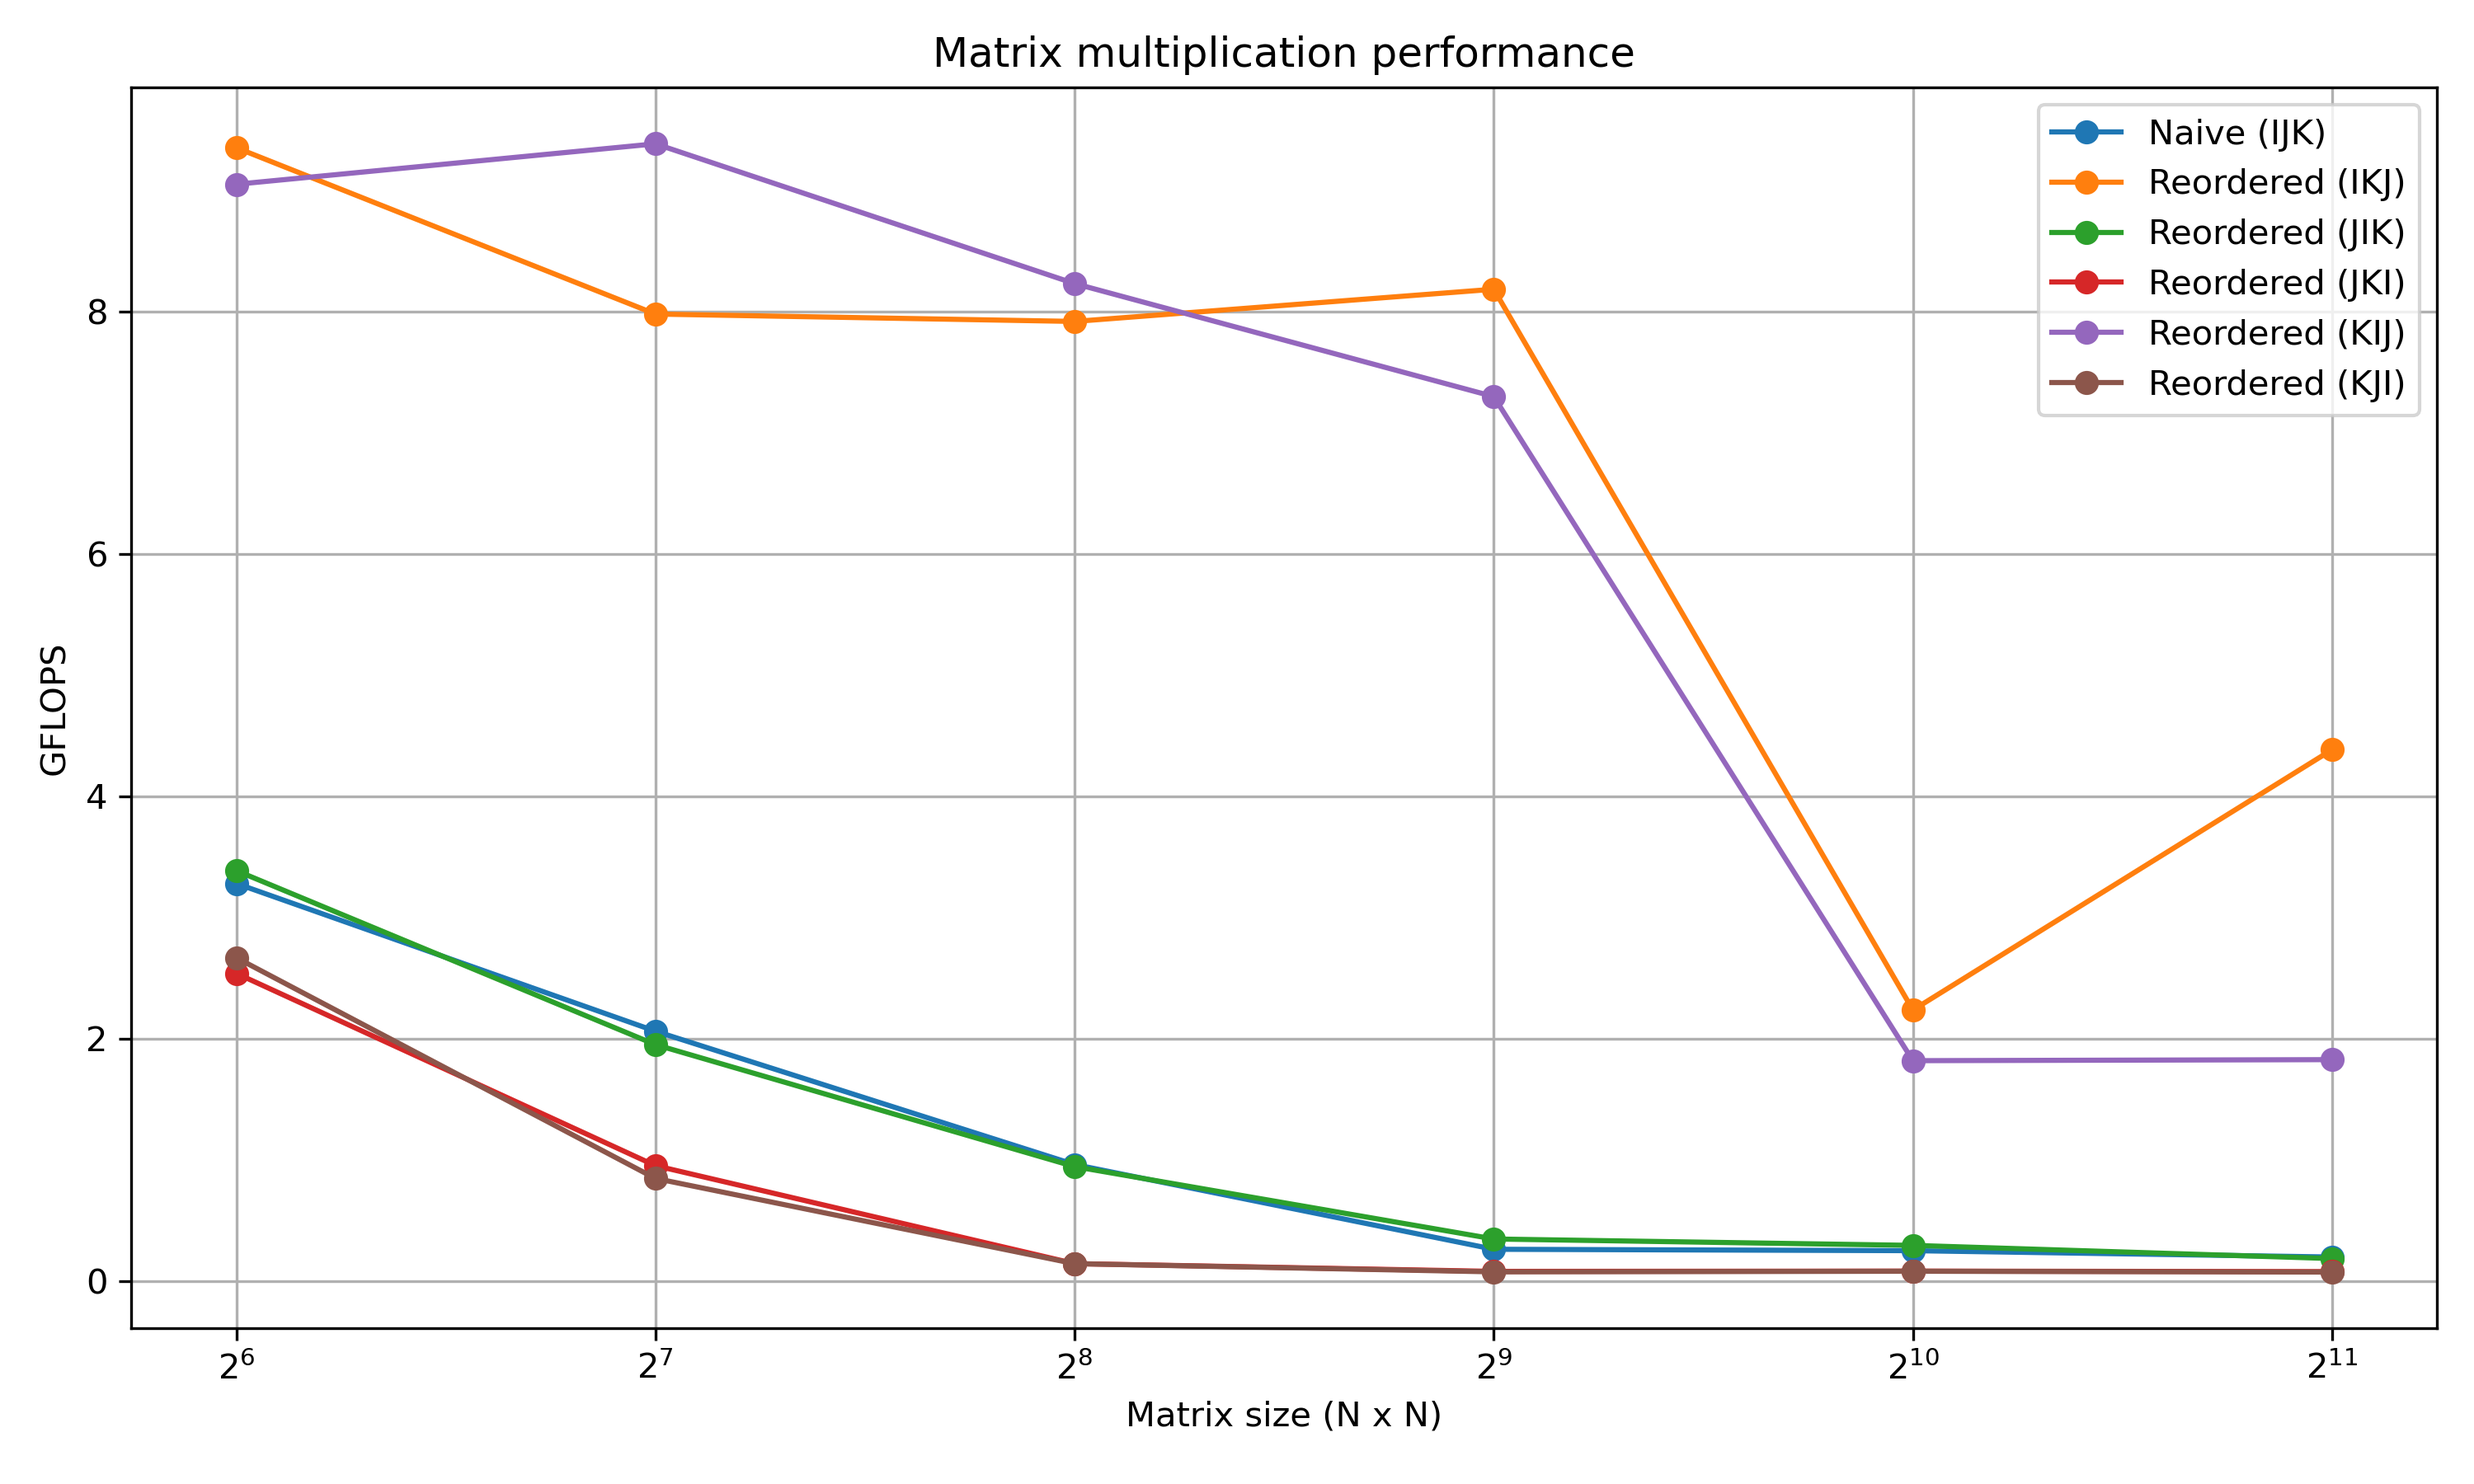
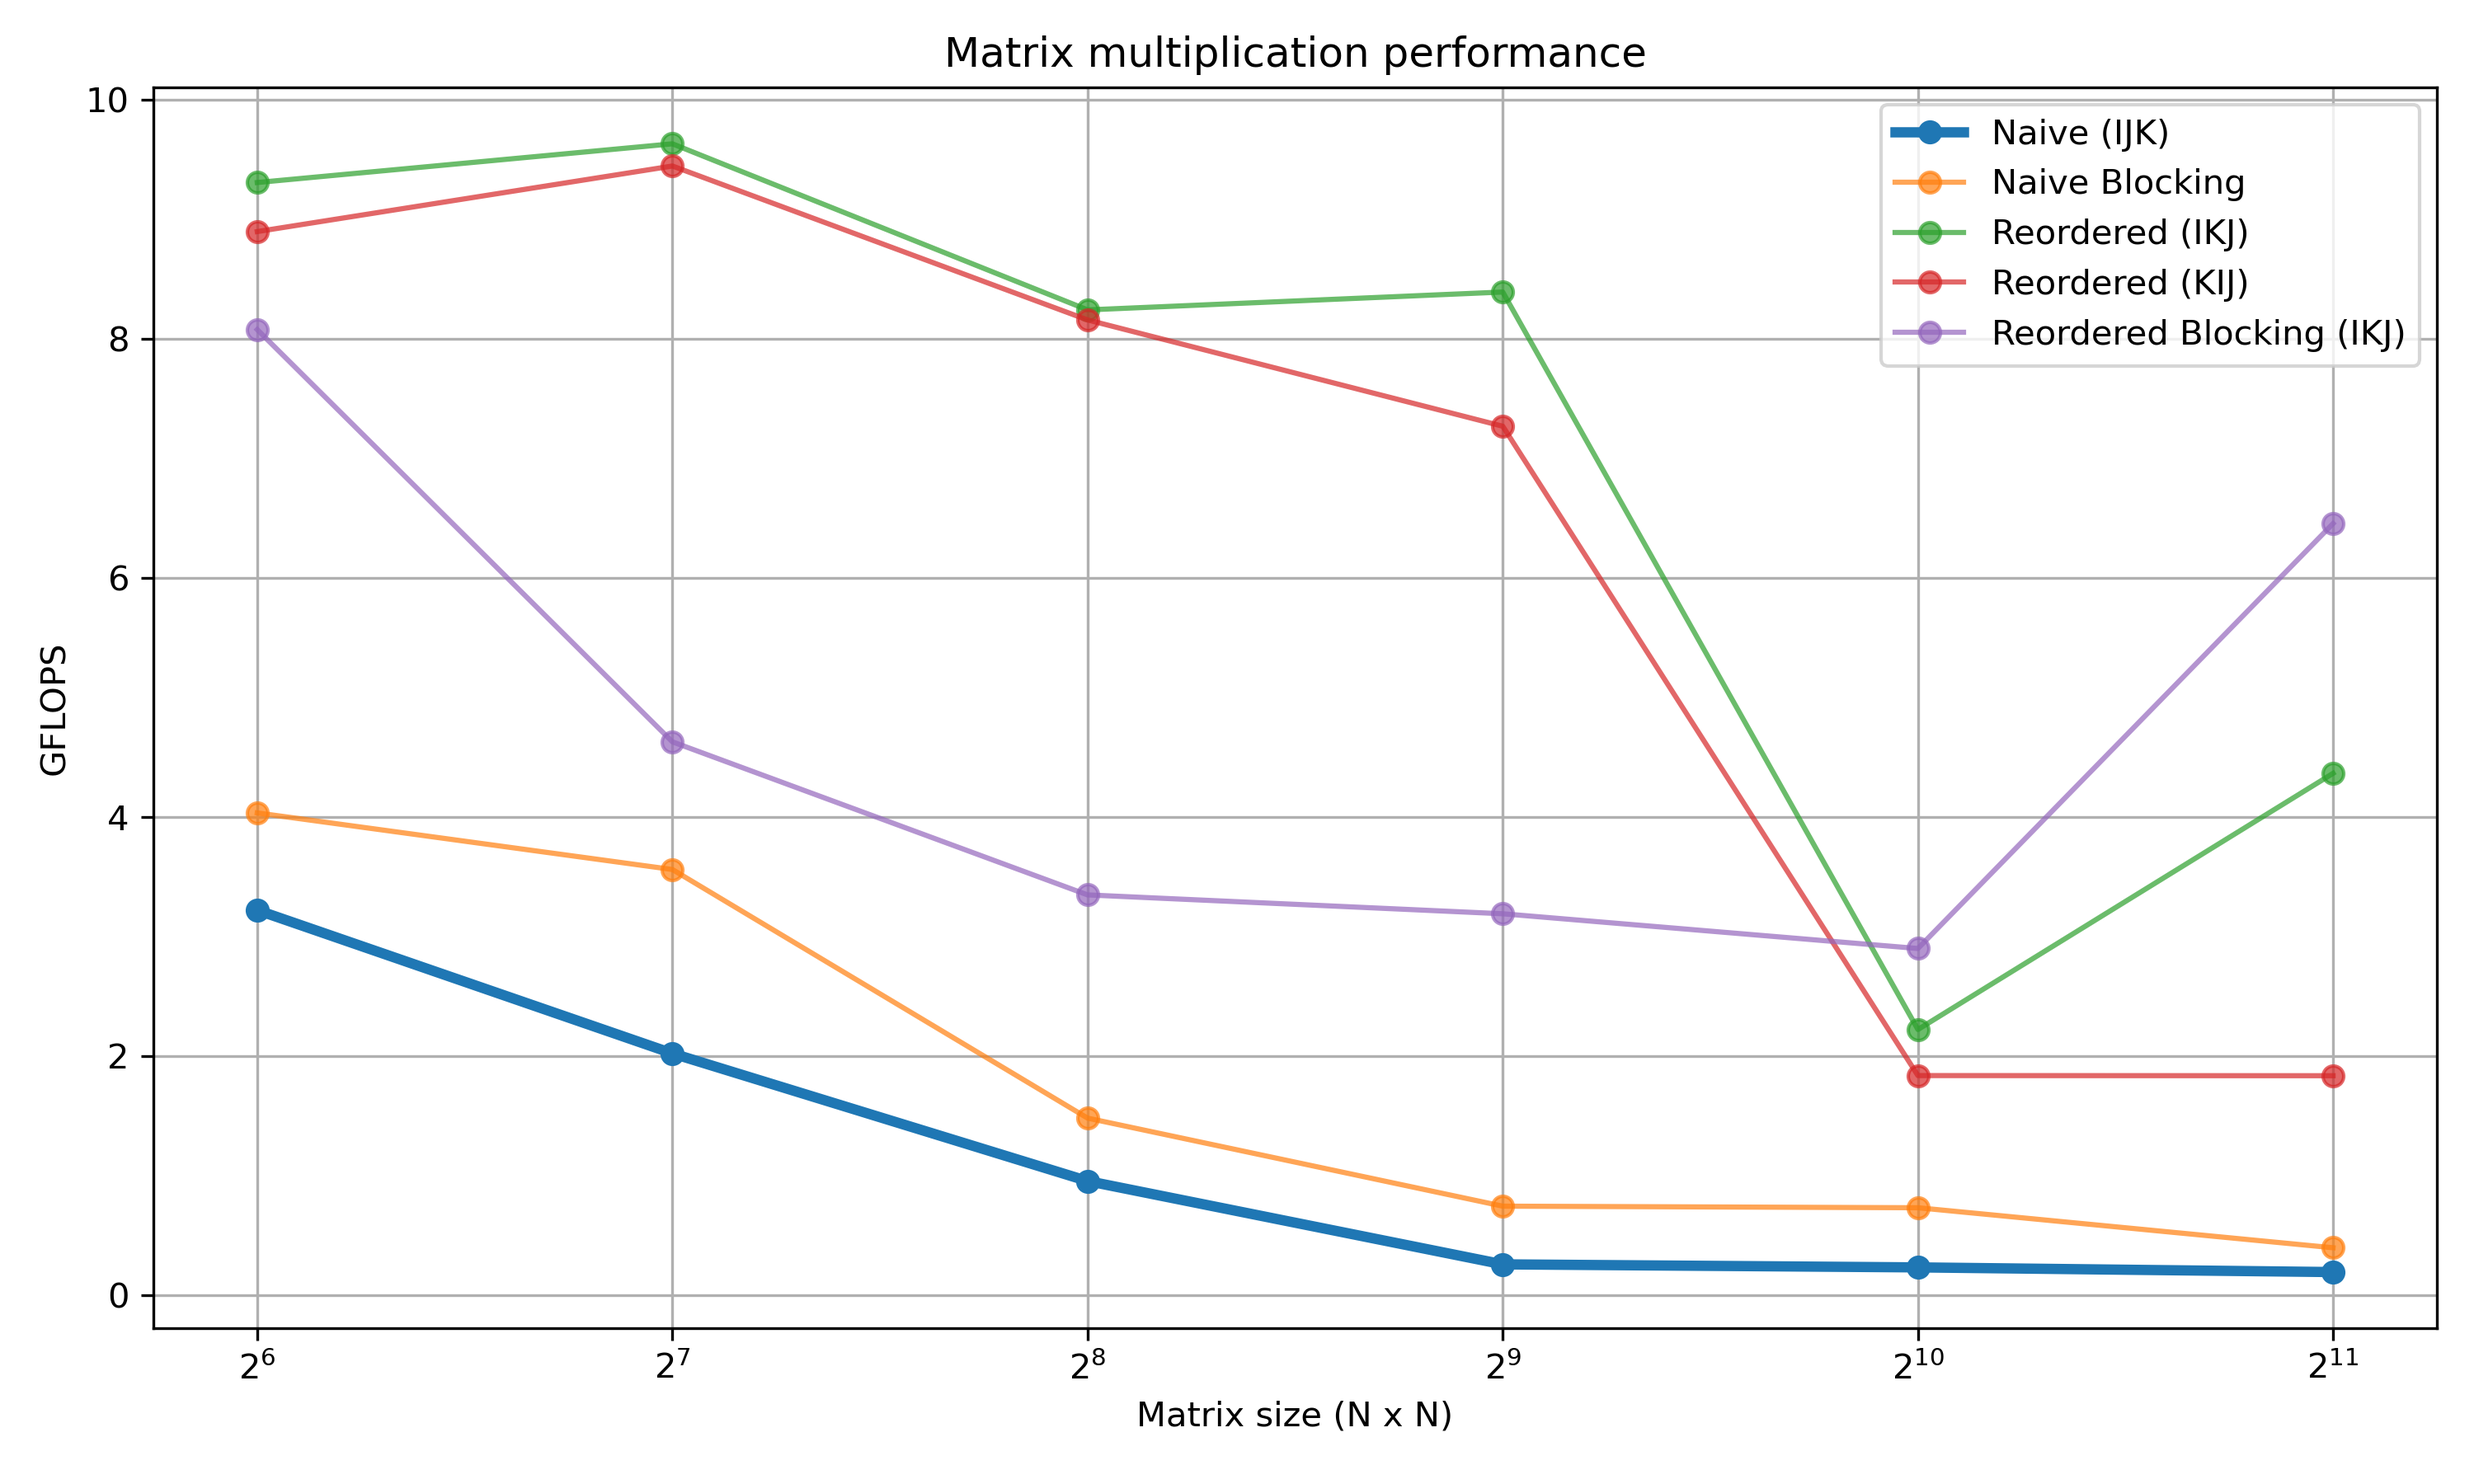
Blocking

diff --git a/benchmarks/benchmark_matrix.cpp b/benchmarks/benchmark_matrix.cpp
@@ -48,6 +48,16 @@ static void BM_MultiplicationReorderedKJI(benchmark::State& state){
     return A.multiplyReorderedKJI(B);
   });
 }
+static void BM_MultiplicationNaiveBlocking(benchmark::State& state){ 
+  MultiplicationTemplate(state, [](const Matrix& A, const Matrix& B){
+    return A.naiveBlocking(B);
+  });
+}
+static void BM_MultiplicationReorderedIKJBlocking(benchmark::State& state){ 
+  MultiplicationTemplate(state, [](const Matrix& A, const Matrix& B){
+    return A.reorderedIKJBlocking(B);
+  });
+}
 int main(int argc, char** argv)
 {
     std::cout << "=============================================================\n";
@@ -61,9 +71,11 @@ int main(int argc, char** argv)
     std::cout << "\nBenchmark finished.\n";
 }
 BENCHMARK(BM_Multiplication)->Name("Naive (IJK)")->RangeMultiplier(2)->Range(64, 2048);
+BENCHMARK(BM_MultiplicationNaiveBlocking)->Name("Naive Blocking")->RangeMultiplier(2)->Range(64, 2048);
 BENCHMARK(BM_MultiplicationReorderedIKJ)->Name("Reordered (IKJ)")->RangeMultiplier(2)->Range(64, 2048);
-BENCHMARK(BM_MultiplicationReorderedJIK)->Name("Reordered (JIK)")->RangeMultiplier(2)->Range(64, 2048);
-BENCHMARK(BM_MultiplicationReorderedJKI)->Name("Reordered (JKI)")->RangeMultiplier(2)->Range(64, 2048);
+//BENCHMARK(BM_MultiplicationReorderedJIK)->Name("Reordered (JIK)")->RangeMultiplier(2)->Range(64, 2048);
+//BENCHMARK(BM_MultiplicationReorderedJKI)->Name("Reordered (JKI)")->RangeMultiplier(2)->Range(64, 2048);
 BENCHMARK(BM_MultiplicationReorderedKIJ)->Name("Reordered (KIJ)")->RangeMultiplier(2)->Range(64, 2048);
-BENCHMARK(BM_MultiplicationReorderedKJI)->Name("Reordered (KJI)")->RangeMultiplier(2)->Range(64, 2048);
+//BENCHMARK(BM_MultiplicationReorderedKJI)->Name("Reordered (KJI)")->RangeMultiplier(2)->Range(64, 2048);
+BENCHMARK(BM_MultiplicationReorderedIKJBlocking)->Name("Reordered Blocking (IKJ)")->RangeMultiplier(2)->Range(64, 2048);
 //BENCHMARK_MAIN();

diff --git a/benchmarks/plotSpeedup.py b/benchmarks/plotSpeedup.py
@@ -1,0 +1,97 @@
+import csv
+import re
+from collections import defaultdict
+
+import matplotlib.pyplot as plt
+
+
+data = defaultdict(dict)
+
+# Leer CSV de Google Benchmark
+with open("results/csv/benchmark.csv", newline="") as f:
+
+    for line in f:
+        if line.startswith("name,"):
+            header = next(csv.reader([line]))
+            break
+
+    reader = csv.DictReader(f, fieldnames=header)
+
+    for row in reader:
+        match = re.match(r"(.+)/(\d+)", row["name"])
+
+        if match:
+            impl = match.group(1)
+            size = int(match.group(2))
+            gflops = float(row["GFLOPS"].replace("/s", ""))
+
+            data[impl][size] = gflops
+
+
+baseline_name = "Naive (IJK)"
+
+if baseline_name not in data:
+    raise RuntimeError(
+        f"No se encontró la baseline '{baseline_name}'"
+    )
+
+
+baseline = data[baseline_name]
+
+
+plt.figure(figsize=(10, 6))
+
+
+for impl, results in data.items():
+
+    sizes = sorted(results.keys())
+
+    speedups = [
+        results[size] / baseline[size]
+        for size in sizes
+    ]
+
+    if impl == baseline_name:
+        plt.plot(
+            sizes,
+            speedups,
+            marker="o",
+            linewidth=3,
+            label=impl
+        )
+    else:
+        plt.plot(
+            sizes,
+            speedups,
+            marker="o",
+            label=impl
+        )
+
+
+# línea base
+plt.axhline(
+    y=1,
+    linestyle=":",
+    linewidth=1
+)
+
+
+plt.xscale("log", base=2)
+
+plt.xlabel("Matrix size (N x N)")
+plt.ylabel("Normalized speedup")
+plt.title(
+    "Matrix multiplication speedup normalized to Naive (IJK)"
+)
+
+plt.grid(True)
+plt.legend()
+
+plt.tight_layout()
+
+plt.savefig(
+    "results/plots/speedup_normalized.png",
+    dpi=300
+)
+
+plt.show()

diff --git a/src/MatrixLibrary.cpp b/src/MatrixLibrary.cpp
@@ -198,3 +198,45 @@ Matrix Matrix::multiplyReorderedIKJ(const Matrix& other) const {
     }
     return Matrix(rows, other.cols, res);
   }
+  
+  
+  
+    Matrix Matrix::naiveBlocking(const Matrix& other) const {
+    if(cols != other.rows) throw invalid_argument("The number of columns in the first matrix must equal the number of rows in the second matrix.");
+    vector<double> res(rows*other.cols);
+
+    const int BS = 32;
+    
+    for(size_t ii=0; ii<rows; ii+=BS){
+      for(size_t jj=0; jj<other.cols; jj+=BS){
+        for(size_t kk=0; kk<cols; kk+=BS){
+          //block
+          for(size_t i=ii; i<min(ii+BS, rows); i++)
+            for(size_t j=jj; j<min(jj+BS, other.cols); j++)
+              for(size_t k=kk; k<min(kk+BS, cols); k++)
+                res[i*other.cols+j] += data[i*cols+k] * other.data[k*other.cols+j];
+        }
+      }
+    }
+    return Matrix(rows, other.cols, res);
+  }
+
+Matrix Matrix::reorderedIKJBlocking(const Matrix& other) const {
+    if(cols != other.rows) throw invalid_argument("The number of columns in the first matrix must equal the number of rows in the second matrix.");
+    vector<double> res(rows*other.cols);
+
+    const int BS = 32;
+    
+    for(size_t ii=0; ii<rows; ii+=BS){
+      for(size_t jj=0; jj<other.cols; jj+=BS){
+        for(size_t kk=0; kk<cols; kk+=BS){
+          //block
+          for(size_t i=ii; i<min(ii+BS, rows); i++)
+            for(size_t k=kk; k<min(kk+BS, cols); k++)
+              for(size_t j=jj; j<min(jj+BS, other.cols); j++)
+                res[i*other.cols+j] += data[i*cols+k] * other.data[k*other.cols+j];
+        }
+      }
+    }
+    return Matrix(rows, other.cols, res);
+  }

diff --git a/benchmarks/plots.py b/benchmarks/plots.py
@@ -32,17 +32,24 @@ with open("results/csv/benchmark.csv", newline="") as f:
 plt.figure(figsize=(10, 6))
 
 for impl, values in data.items():
-    # ordenar por tamaño
-    sizes, gflops = zip(*sorted(
-        zip(values["size"], values["gflops"])
-    ))
+    sizes, gflops = zip(*sorted(zip(values["size"], values["gflops"])))
 
-    plt.plot(
-        sizes,
-        gflops,
-        marker="o",
-        label=impl
-    )
+    if impl == "Naive (IJK)":
+        plt.plot(
+            sizes,
+            gflops,
+            linewidth=3,
+            marker="o",
+            label=impl
+        )
+    else:
+        plt.plot(
+            sizes,
+            gflops,
+            marker="o",
+            alpha=0.7,
+            label=impl
+        )
 
 
 plt.xlabel("Matrix size (N x N)")

diff --git a/tests/tests.cpp b/tests/tests.cpp
@@ -97,6 +97,22 @@ TEST(MatrixTest, ProductReorderedKJI){
   Matrix expected(3,3, {3,1,2,3,0,3,7,3,6});
   EXPECT_TRUE(C==expected);
 }
+TEST(MatrixTest, ProductNaiveBlocking){
+  Matrix A(3,3,{2,0,1,3,0,0,5,1,1});
+  Matrix B(3,3,{1,0,1,1,2,1,1,1,0});
+  Matrix C = A.naiveBlocking(B);
+  
+  Matrix expected(3,3, {3,1,2,3,0,3,7,3,6});
+  EXPECT_TRUE(C==expected);
+}
+TEST(MatrixTest, ProductReorderedIKJBlocking){
+  Matrix A(3,3,{2,0,1,3,0,0,5,1,1});
+  Matrix B(3,3,{1,0,1,1,2,1,1,1,0});
+  Matrix C = A.reorderedIKJBlocking(B);
+  
+  Matrix expected(3,3, {3,1,2,3,0,3,7,3,6});
+  EXPECT_TRUE(C==expected);
+}
 
 TEST(MatrixTest, ProductError){
   Matrix A(2,2);

diff --git a/include/MatrixLibrary.h b/include/MatrixLibrary.h
@@ -36,6 +36,9 @@ public:
   Matrix multiplyReorderedJKI(const Matrix& other) const;
   Matrix multiplyReorderedKIJ(const Matrix& other) const;
   Matrix multiplyReorderedKJI(const Matrix& other) const;
+  
+  Matrix naiveBlocking(const Matrix& other) const;
+  Matrix reorderedIKJBlocking(const Matrix& other) const;
 };
   
 #endif
